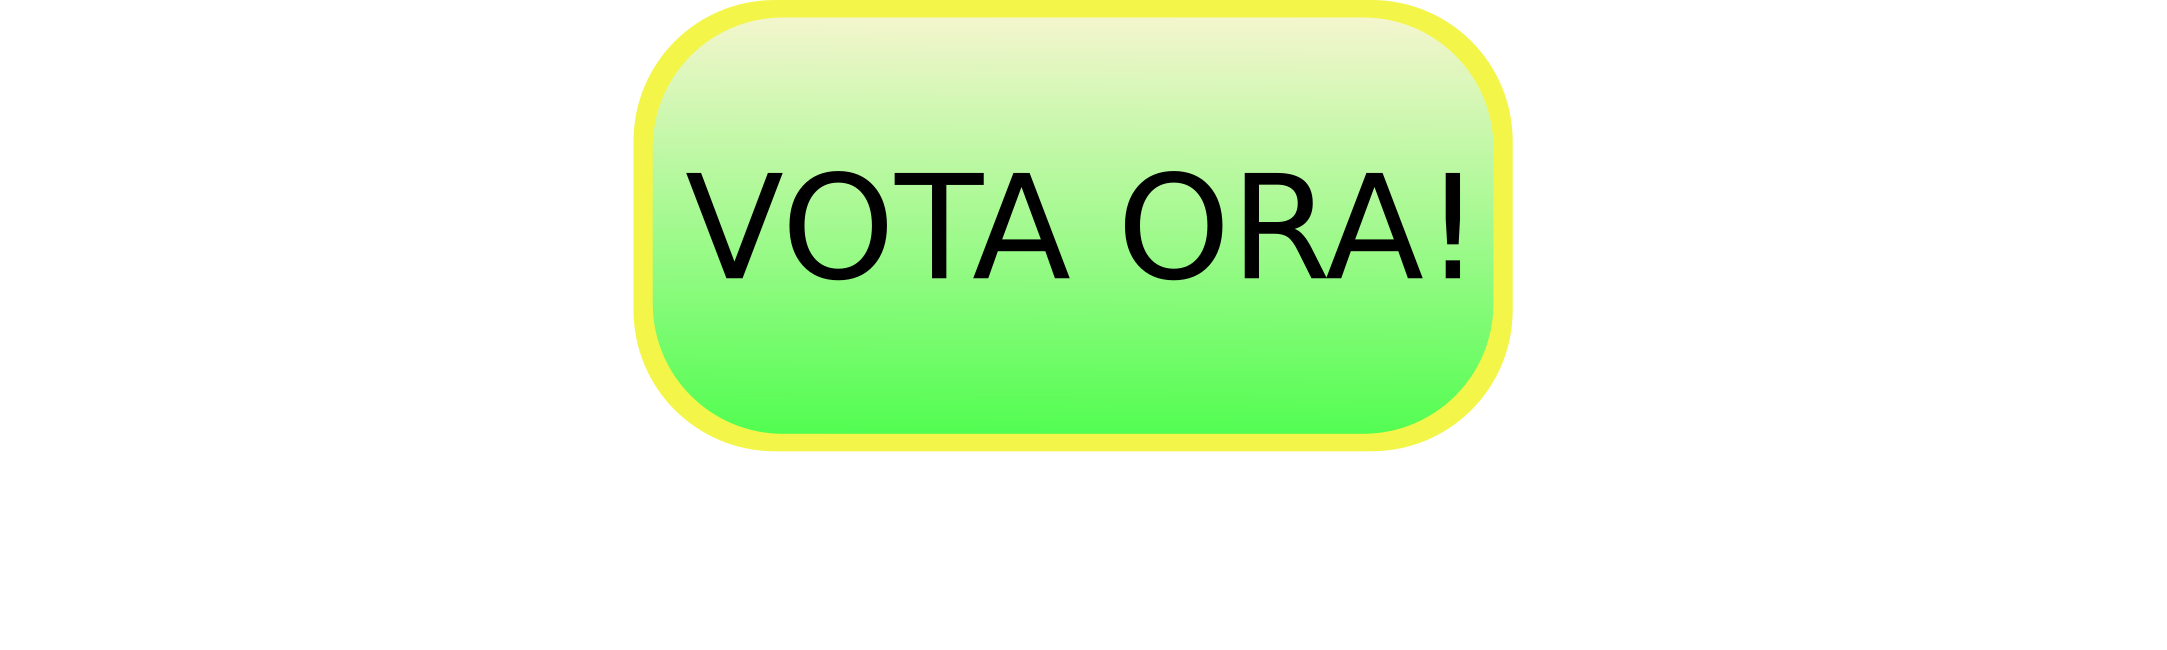
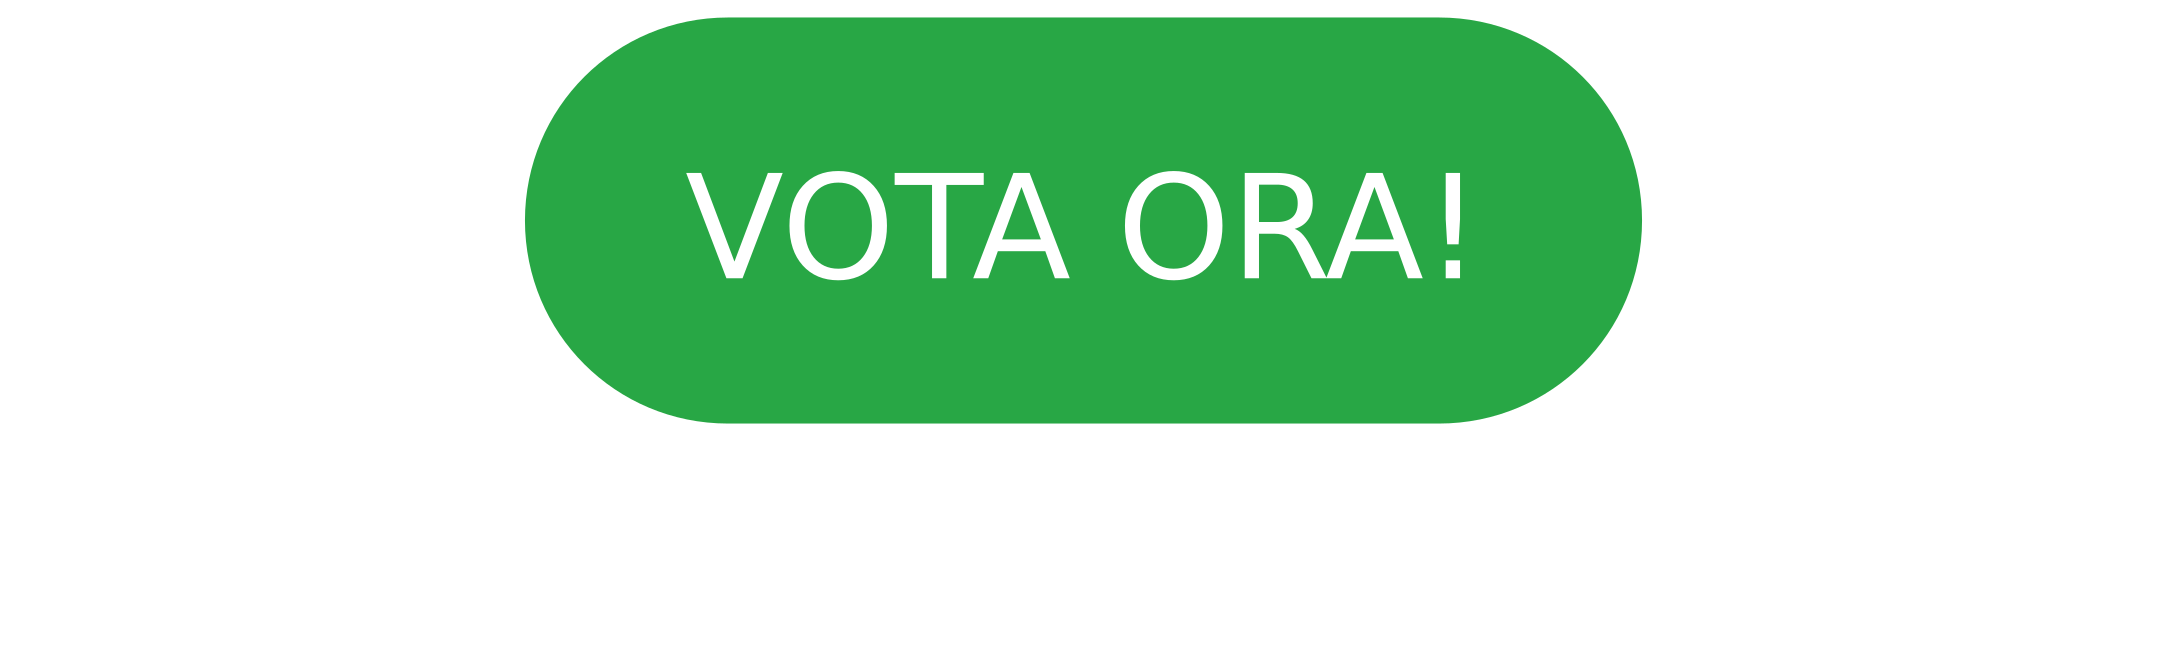
fine update per migliorare visualizzazione mobile

diff --git a/votaora.md b/votaora.md
@@ -4,7 +4,7 @@ title: Elezioni 2021
 
 #background_image: url('assets/img/backgrounds/in_costruzione.png')
 
-sections:
+#sections:
 
 #  - type: call-to-action.html
 #    section_id: votaora_old
@@ -21,17 +21,34 @@ sections:
 #        url: 'https://unifi.evoting.it/login.aspx?id=1iGS16gjbPE%253d'
 #        class: btn-success
 
-  - type: members2.html
-    section_id: votaora
-    title: Puoi votare martedì 11 dalle 9 alle 19 e mercoledì 12 maggio dalle 9 alle 18 su Eligo
-    background_style: bg-primary text-white
-    members:
-      - title: Qui sotto trovi anche la video-guida rapida al voto
-        text:
-        image: /elezioni2021/asset/votaora2.png
-        url: 'https://unifi.evoting.it/login.aspx?id=1iGS16gjbPE%253d'
+#  - type: members2.html
+#    section_id: votaora
+#    title: Puoi votare martedì 11 dalle 9 alle 19 e mercoledì 12 maggio dalle 9 alle 18 su Eligo
+#    background_style: bg-primary text-white
+#    members:
+#      - title: Qui sotto trovi anche la video-guida rapida al voto
+#        text:
+#        image: /elezioni2021/asset/votaora2.png
+#        url: 'https://unifi.evoting.it/login.aspx?id=1iGS16gjbPE%253d'
 
 ---
+
+<html>
+   <head>
+      <title>HTML Image as link</title>
+   </head>
+   <body>
+<!--      The following image works as a link:<br>
+--->
+      <a href="https://unifi.evoting.it/login.aspx?id=1iGS16gjbPE%253d">
+     <img src="https://studentidisinistra.it/elezioni2021/asset/votaora3.png" alt="votaora" class="embed-responsive">
+     </a>
+   </body>
+</html>
+
+
+<a href="https://www.unifi.it/upload/sub/elezioni/studenti_2021_2023/guida_voto_eligo.pdf">Clicca qui per la guida ufficiale in PDF</a>
+
 
 <html>
     <style>
